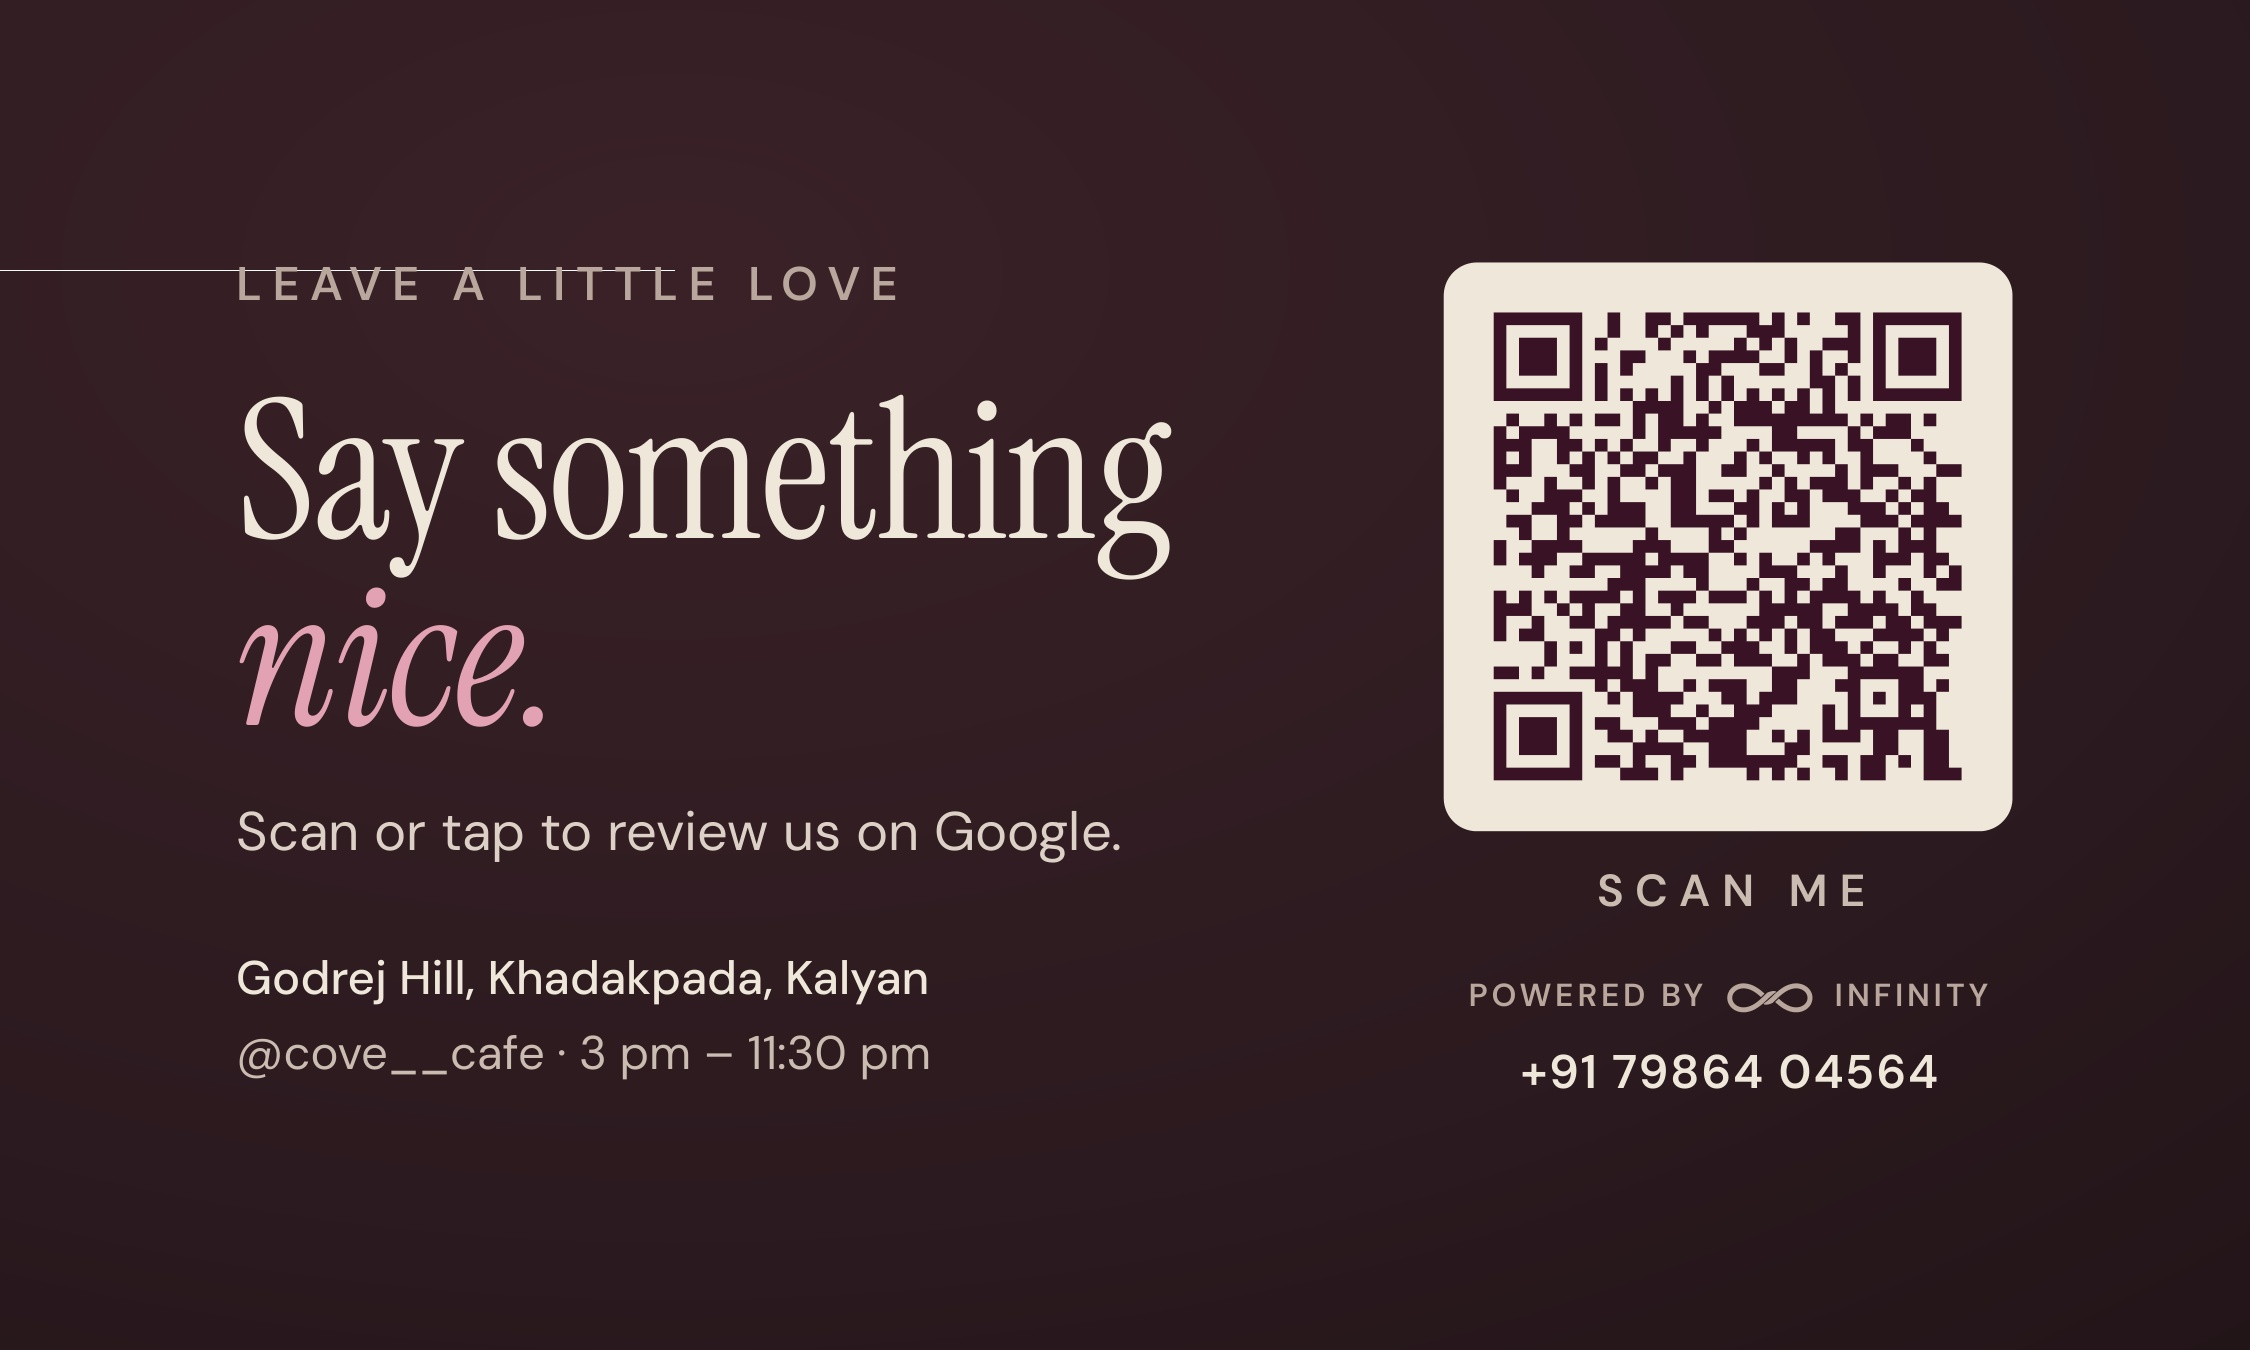
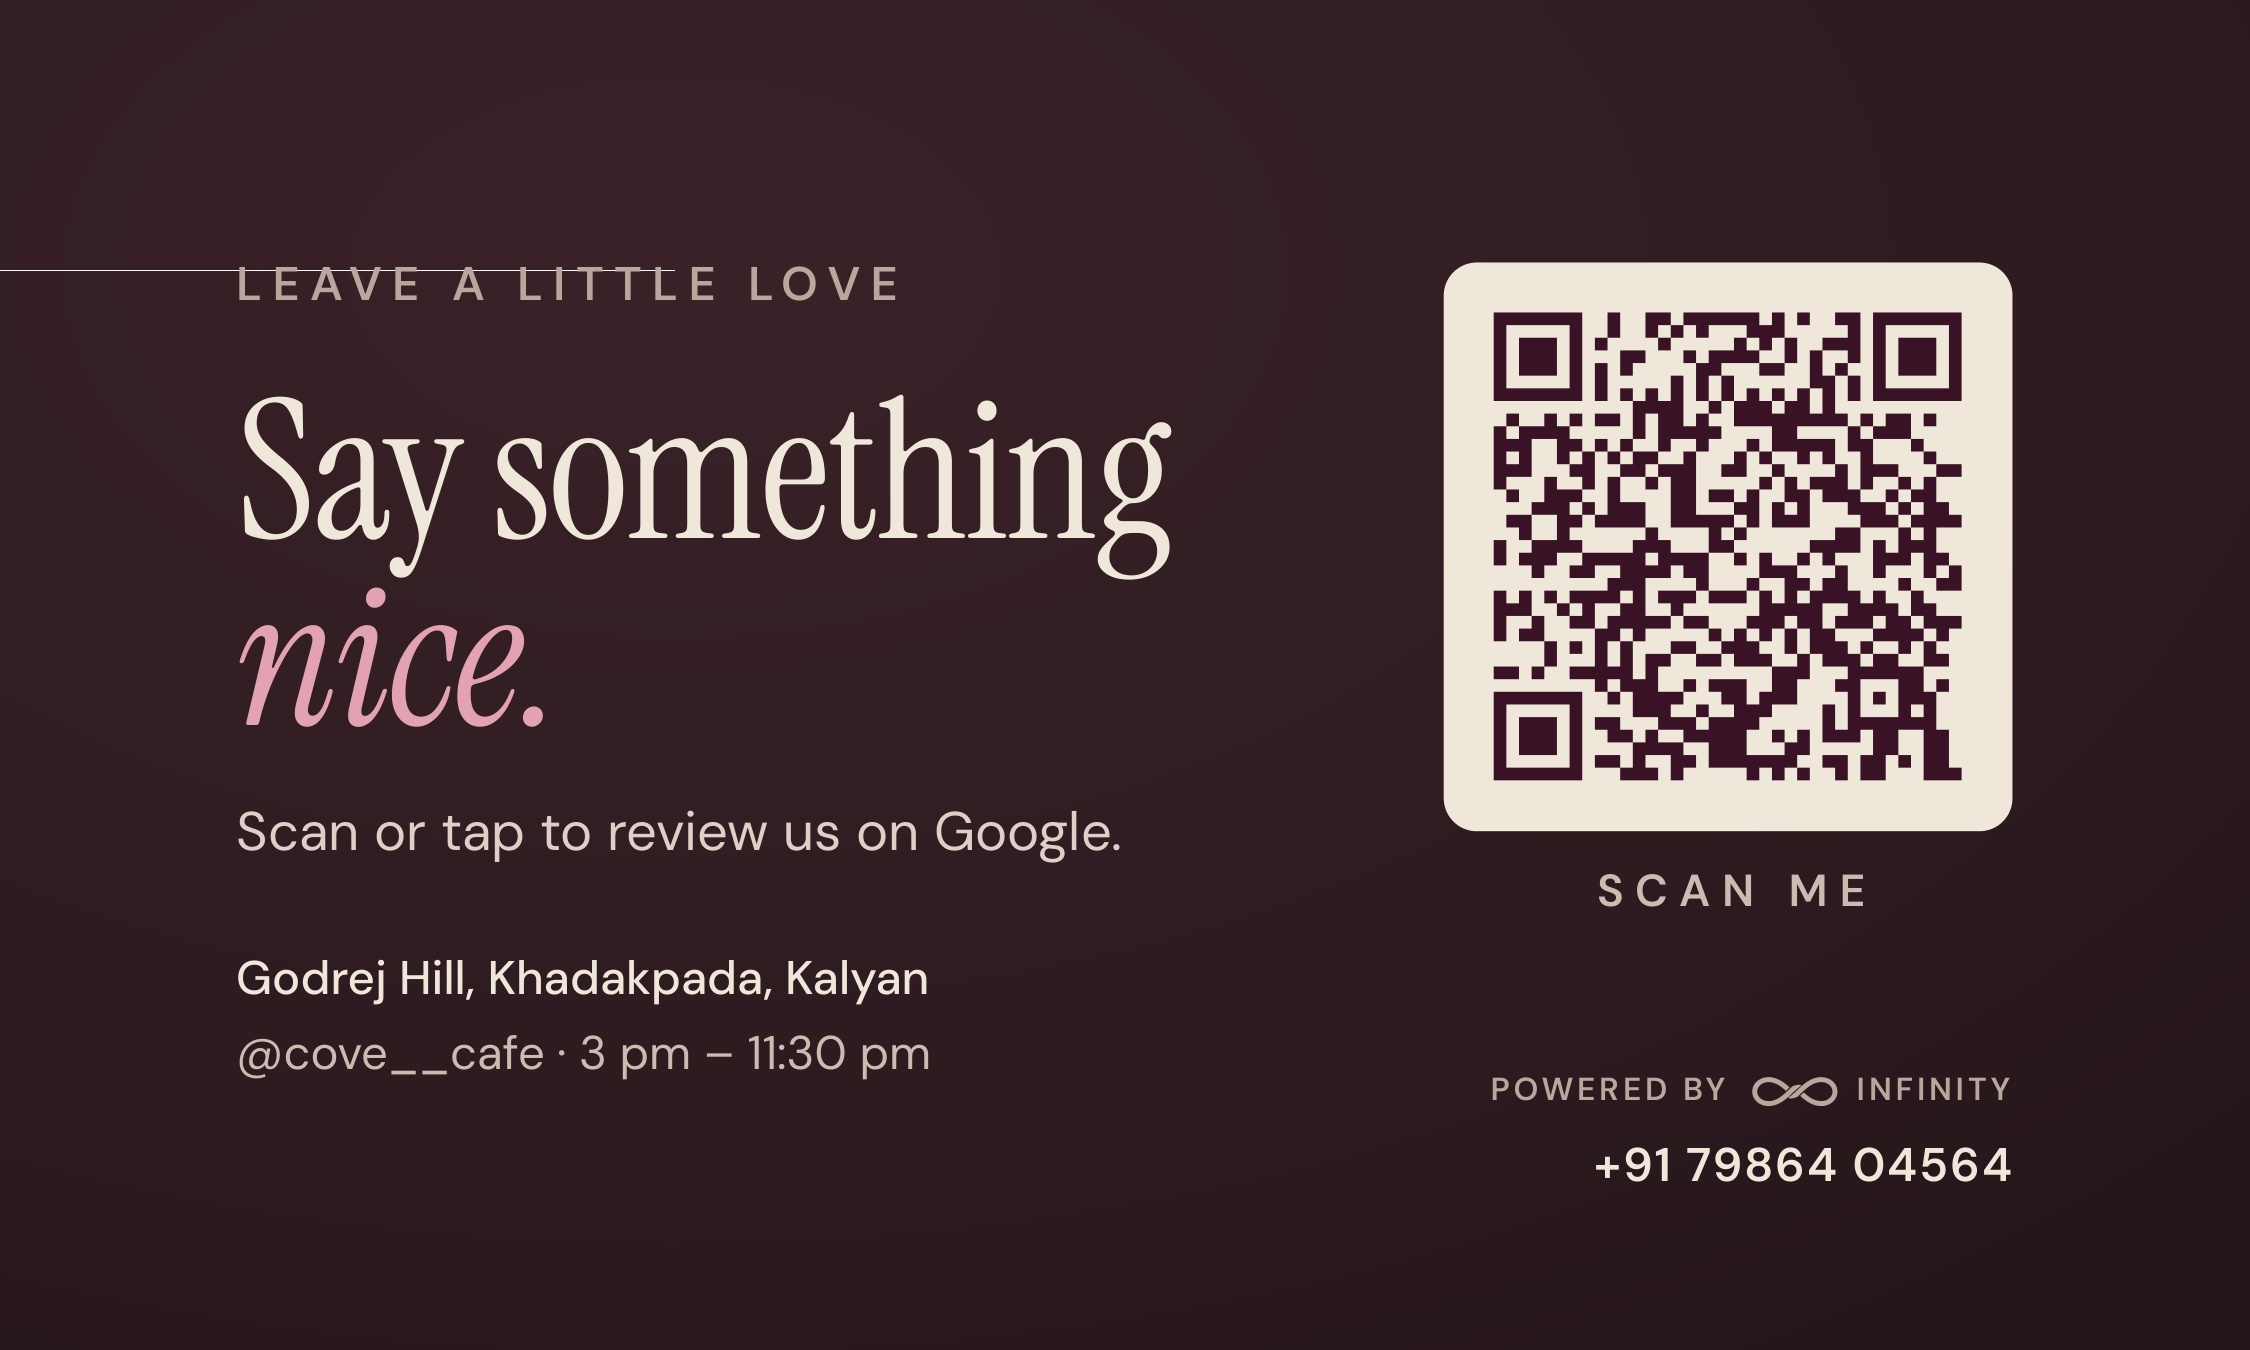
Cove Cafe card: Powered by + number in bottom-right corner
Claude-Session: https://claude.ai/code/session_01G61VfdThxTuJa9vLSWusaf

Changed region(s): [[0.6533, 0.7778, 0.9022, 0.8711], [0.6533, 0.7156, 0.8711, 0.7467]]

diff --git a/nfc-cards/cove/source/card.html b/nfc-cards/cove/source/card.html
@@ -35,8 +35,8 @@
 .qb{width:24mm;height:24mm;background:#efe7db;border-radius:1.4mm;padding:2.1mm}
 .qr{width:100%;height:100%;display:block}
 .QR .c{font-weight:600;font-size:1.9mm;line-height:1;letter-spacing:.26em;color:#cbbcb2;margin-right:-.3em}
-.pw{position:absolute;left:61.25mm;width:24mm;top:41.4mm;text-align:center;color:#b9a79d}
-.pw .r{display:flex;align-items:center;justify-content:center;gap:.8mm;font-weight:600;font-size:1.35mm;letter-spacing:.12em}
+.pw{position:absolute;right:10mm;bottom:6.7mm;text-align:right;color:#b9a79d}
+.pw .r{display:flex;align-items:center;justify-content:flex-end;gap:.8mm;font-weight:600;font-size:1.35mm;letter-spacing:.12em}
 .pw svg{width:3.8mm;color:#b9a79d}
 .pw .ph{margin-top:.9mm;font-weight:600;font-size:2mm;letter-spacing:.04em;color:#efe7db}
 </style></head><body>
